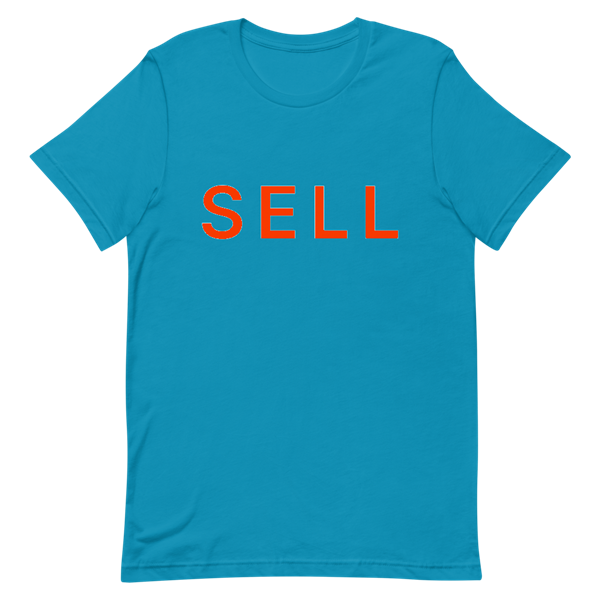
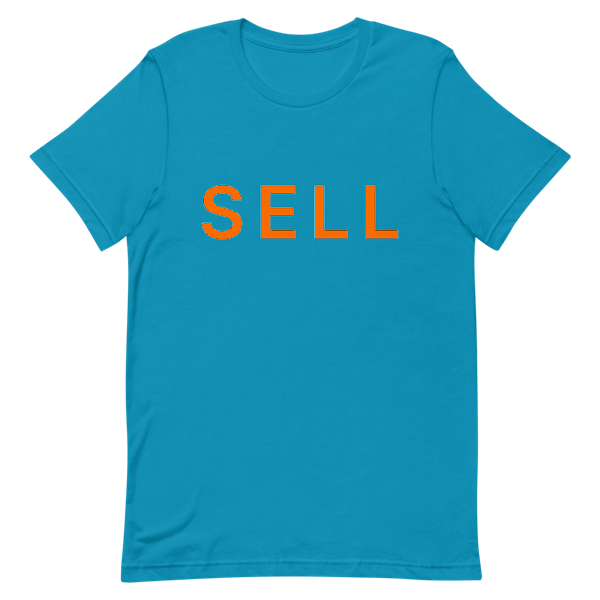
Brighten Miami tee lettering

Changed region(s): [[0.33, 0.3, 0.57, 0.42], [0.6, 0.3, 0.66, 0.42]]

diff --git a/lib/products.ts b/lib/products.ts
@@ -102,11 +102,11 @@ export function printColorHex(team: Team, style: Style): string {
       return colorHex(original, style);
     }
   }
+  if (team.slug === "nfl-miami" && style === "tee") return "#FF6F00";
   const name = printColorName(team, style);
   if (name === "red") return "#d0071e";
   if (name === "orange") return "#FF3C00";
   if (name === "black") return "#000000";
-  if (name === "orange") return "#FF3C00";
   if (name === "metallic gold") return "#C5A253";
   return STYLE[style].ink;
 }

diff --git a/lib/art.ts b/lib/art.ts
@@ -1,4 +1,4 @@
 // Bump when the shirt artwork or photos change: Printful caches print files by
 // URL and next/image caches optimized photos by URL, so a new number makes
 // both fetch fresh copies.
-export const ART_VERSION = 22;
+export const ART_VERSION = 23;
